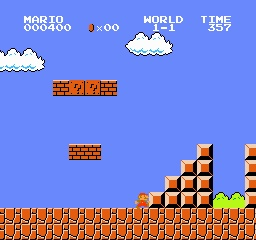
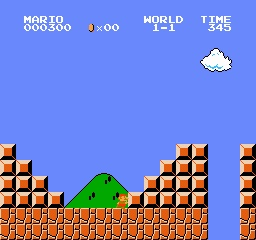
jump through stair 1

diff --git a/trial2.py b/trial2.py
@@ -223,7 +223,6 @@ def detect_hole(screen):
 
     min_val, max_val, min_loc, max_loc = cv.minMaxLoc(result)
     yloc, xloc = np.where(result >= 0.8)
-    # print("x:", xloc, "y:", yloc)
 
     rectangles = []
     for (x, y) in zip(xloc, yloc):
@@ -232,7 +231,30 @@ def detect_hole(screen):
 
     rectangles, weights = cv.groupRectangles(rectangles, 1, 0.2)
 
-    # print("rectangles:", rectangles)
+    return rectangles
+
+def detect_stairs(screen):
+    obs = cv.cvtColor(screen, cv.COLOR_BGR2RGB)
+    cv.imwrite("Images/screen.jpeg", obs)
+    obs = cv.imread("Images/screen.jpeg", cv.IMREAD_COLOR)
+    left_stair = cv.imread("Images/left_stair.jpeg", cv.IMREAD_COLOR)
+
+    result = cv.matchTemplate(obs, left_stair, cv.TM_CCOEFF_NORMED)
+
+    w = left_stair.shape[1]
+    h = left_stair.shape[0]
+
+    min_val, max_val, min_loc, max_loc = cv.minMaxLoc(result)
+    yloc, xloc = np.where(result >= 0.9)
+
+    rectangles = []
+    for (x, y) in zip(xloc, yloc):
+        rectangles.append([int(x), int(y), int(w), int(h)])
+        rectangles.append([int(x), int(y), int(w), int(h)])
+
+    rectangles, weights = cv.groupRectangles(rectangles, 1, 0.2)
+    print("rectangles:", rectangles)
+
     return rectangles
 
 def find_object_location(screen, info, step, env, prev_action):
@@ -260,9 +282,15 @@ def find_object_location(screen, info, step, env, prev_action):
         hole_position_x = hole_locations[-1][0]
         hole_position_y = hole_locations[-1][1]
         hole_position = (hole_position_x, hole_position_y)
-        print("hole:", hole_position)
 
-    next_object = nearest_object(mario_position, enemy_position, pipe_position, hole_position)
+    left_stair_locations = detect_stairs(screen)
+    left_stair_position = None
+    if len(left_stair_locations) > 0:
+        left_stair_position_x = left_stair_locations[-1][0]
+        left_stair_position_y = left_stair_locations[-1][1]
+        left_stair_position = (left_stair_position_x, left_stair_position_y)
+
+    next_object = nearest_object(mario_position, enemy_position, pipe_position, hole_position, left_stair_position)
 
     if enemy_position == next_object:
         return ["enemy", enemy_position]
@@ -270,15 +298,17 @@ def find_object_location(screen, info, step, env, prev_action):
         return ["pipe", pipe_position]
     elif hole_position == next_object:
         return ["hole", hole_position]
+    elif left_stair_position == next_object:
+        return ["left stair", hole_position]
     else:
         return None
 
 
-def nearest_object(mario_position, enemy_position, pipe_position, hole_position):
+def nearest_object(mario_position, enemy_position, pipe_position, hole_position, left_stair_position):
     objects = []
     locations = []
 
-    for object in enemy_position, pipe_position, hole_position:
+    for object in enemy_position, pipe_position, hole_position, left_stair_position:
         if object is not None:
             objects.append(object)
             location = object[0] - mario_position[0]
@@ -308,19 +338,17 @@ def make_action(screen, info, step, env, prev_action):
 
     if object is None:
         action = 3
-    elif object[0].lower() == "pipe":
-        action = jump_pipe(mario, object[1])
-        print(abs(mario[0] - object[1][0]))
-    elif object[0].lower() == "enemy":
-        action = jump_enemy(mario, object[1])
-        print(abs(mario[0] - object[1][0]))
-    elif object[0].lower() == "hole":
-        action = jump_hole(mario, object[1])
-        print(abs(mario[0] - object[1][0]))
+    else:
+        if object[0].lower() == "pipe":
+            action = jump_pipe(mario, object[1])
+        elif object[0].lower() == "enemy":
+            action = jump_enemy(mario, object[1])
+        elif object[0].lower() == "hole":
+            action = jump_hole(mario, object[1])
 
-    print("action:", action)
-    print("mario:", mario)
-    print("object:", object)
+    # print("action:", action)
+    # print("mario:", mario)
+    # print("object:", object)
     return action
 
 
@@ -332,7 +360,7 @@ def jump_pipe(mario_location, pipe_location):
         if is_on_pipe(mario_location, pipe_location):
             action = 2
 
-        elif distance <= 58:
+        elif distance <= 60:
             action = 2
 
             if distance <= 20:
@@ -353,7 +381,7 @@ def jump_enemy(mario_location, enemy_location):
         if distance <= 40:
             action = 2
 
-            if distance <= 20:
+            if distance <= 20 and not is_above_enemy(mario_location, enemy_location):
                 action = 6
 
     return action
@@ -371,26 +399,17 @@ def jump_hole(mario_location, hole_location):
 def is_on_pipe(mario_location, pipe_location):
     mario_location[1] > pipe_location[1]
 
+def is_above_enemy(mario_location, enemy_location):
+    return mario_location[1] < enemy_location[1]
+
 def is_below_enemy(mario_location, enemy_location):
-    return mario_location[1] > enemy_location[1]
+    return mario_location[1] > enemy_location[1] + 25
 
+def is_on_pipe(mario_location, pipe_location):
+    mario_y = mario_location[1]
+    pipe_y = pipe_location[1]
 
-# env = gym.make("SuperMarioBros-v0", apply_api_compatibility=True, render_mode="human")
-# env = JoypadSpace(env, SIMPLE_MOVEMENT)
-
-# obs = None
-# done = True
-# env.reset()
-# for step in range(100000):
-#     action = env.action_space.sample()
-#     obs, reward, terminated, truncated, info = env.step(action)
-#     done = terminated or truncated
-#     if done:
-#         env.reset()
-
-#     print(make_action(obs, info, step, env, action))
-# env.close()
-
+    return mario_y < pipe_y
 
 env = gym.make("SuperMarioBros-v0", apply_api_compatibility=True, render_mode="human")
 env = JoypadSpace(env, SIMPLE_MOVEMENT)

diff --git a/rule-based.py b/rule-based.py
@@ -298,7 +298,7 @@ def find_object_location(screen, info, step, env, prev_action):
     elif hole_position == next_object:
         return ["hole", hole_position]
     elif left_stair_position == next_object:
-        return ["left stair", hole_position]
+        return ["left stair", left_stair_position]
     else:
         return None
 
@@ -344,6 +344,8 @@ def make_action(screen, info, step, env, prev_action):
             action = jump_enemy(mario, object[1])
         elif object[0].lower() == "hole":
             action = jump_hole(mario, object[1])
+        elif object[0].lower() == "left stair":
+            action = jump_stair(mario, object[1])
 
     print("action:", action)
     print("mario:", mario)
@@ -377,7 +379,7 @@ def jump_enemy(mario_location, enemy_location):
     action = 3
 
     if distance > 0 and not is_below_enemy(mario_location, enemy_location):
-        if distance <= 40:
+        if distance <= 30:
             action = 2
 
             if distance <= 20 and not is_above_enemy(mario_location, enemy_location):
@@ -395,8 +397,21 @@ def jump_hole(mario_location, hole_location):
 
     return action
 
+def jump_stair(mario_location, stair_location):
+    distance = stair_location[0] - mario_location[0]
+    action = 3
+
+    if distance > 0:
+        if distance <= 60:
+            action = 4
+    else:
+        if action == 3 and is_on_stair(mario_location, stair_location):
+            action = 2
+
+    return action
+
 def is_on_pipe(mario_location, pipe_location):
-    mario_location[1] > pipe_location[1]
+    return mario_location[1] < pipe_location[1]
 
 def is_above_enemy(mario_location, enemy_location):
     return mario_location[1] < enemy_location[1]
@@ -404,11 +419,8 @@ def is_above_enemy(mario_location, enemy_location):
 def is_below_enemy(mario_location, enemy_location):
     return mario_location[1] > enemy_location[1] + 25
 
-def is_on_pipe(mario_location, pipe_location):
-    mario_y = mario_location[1]
-    pipe_y = pipe_location[1]
-
-    return mario_y < pipe_y
+def is_on_stair(mario_location, stair_location):
+    return mario_location[1] < stair_location[1]
 
 env = gym.make("SuperMarioBros-v0", apply_api_compatibility=True, render_mode="human")
 env = JoypadSpace(env, SIMPLE_MOVEMENT)

diff --git a/trial3.py b/trial3.py
@@ -1,0 +1,2 @@
+rectangles = [[149, 129, 64, 64], [149, 145, 64, 64], [133, 145, 64, 64], [133, 161, 64, 64]]
+print(rectangles[-1][0])
